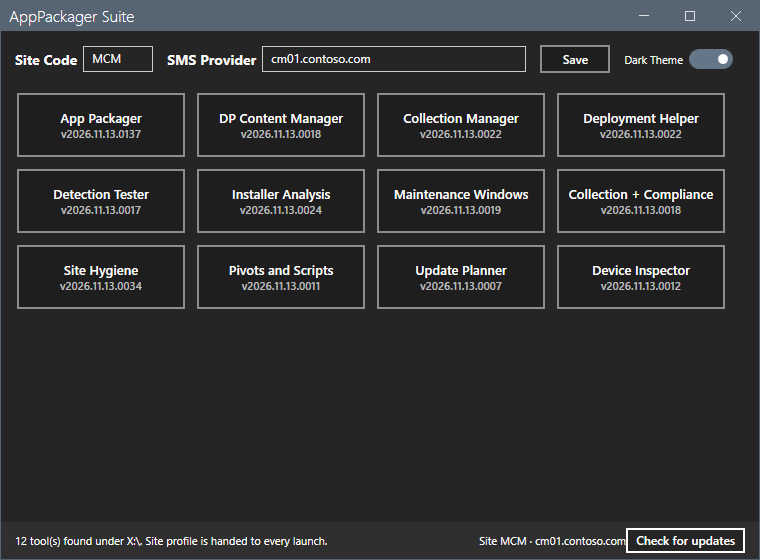
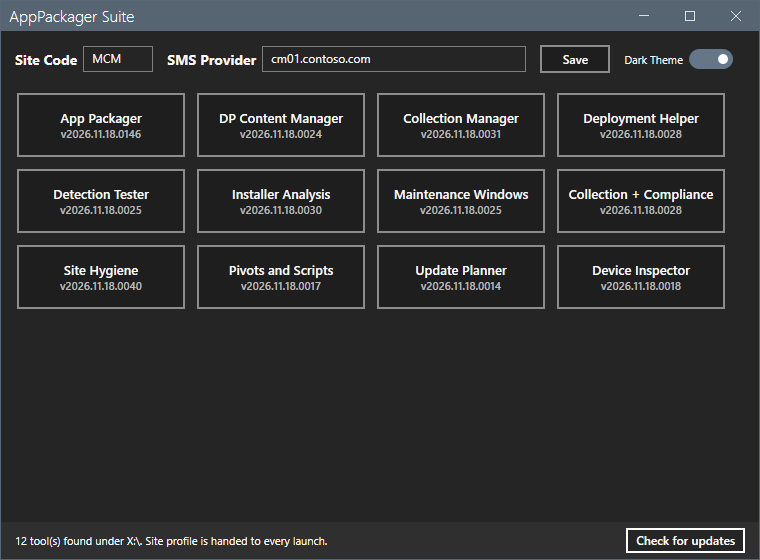
Remove the site from the launcher footer; keep a gap and an ellipsis (#73)

diff --git a/README.md b/README.md
@@ -46,10 +46,10 @@ connection profile - site code and SMS provider - is entered once and
 handed to each launch through the `SUITE_CM_PROVIDER` /
 `SUITE_CM_SITECODE` environment variables; `Connect-CMSite` falls back
 to the provider variable, so tools connect without per-tool
-configuration. The footer shows the saved site code and site server as
-text: the site code with "Site", a middle dot, then the site server (for example "Site MCM", middle dot, "cm01.contoso.com"). The two boxes at the top
-of the launcher window are the place to edit them. The launcher embeds no
-tools and hosts no plugins.
+configuration. The two boxes at the top of the launcher window are the
+place to edit them. The footer shows the status text and the Check for
+updates button; a long status text ends in an ellipsis, and its tooltip
+shows the whole text. The launcher embeds no tools and hosts no plugins.
 
 ## All-in-one installer
 

diff --git a/CHANGELOG.md b/CHANGELOG.md
@@ -2,6 +2,11 @@
 
 ## [Unreleased]
 
+### Launcher
+
+- Remove the site code and the site server from the footer of the launcher. The two boxes at the top of the window show them.
+- Leave a gap of 12 pixels between the status text and the Check for updates button. A long status text ends in an ellipsis, and its tooltip shows the whole text.
+
 ## [2026.11.19.0094] - 2026-11-19
 
 ## 1 component refreshed with cancel fixes and a new packager
